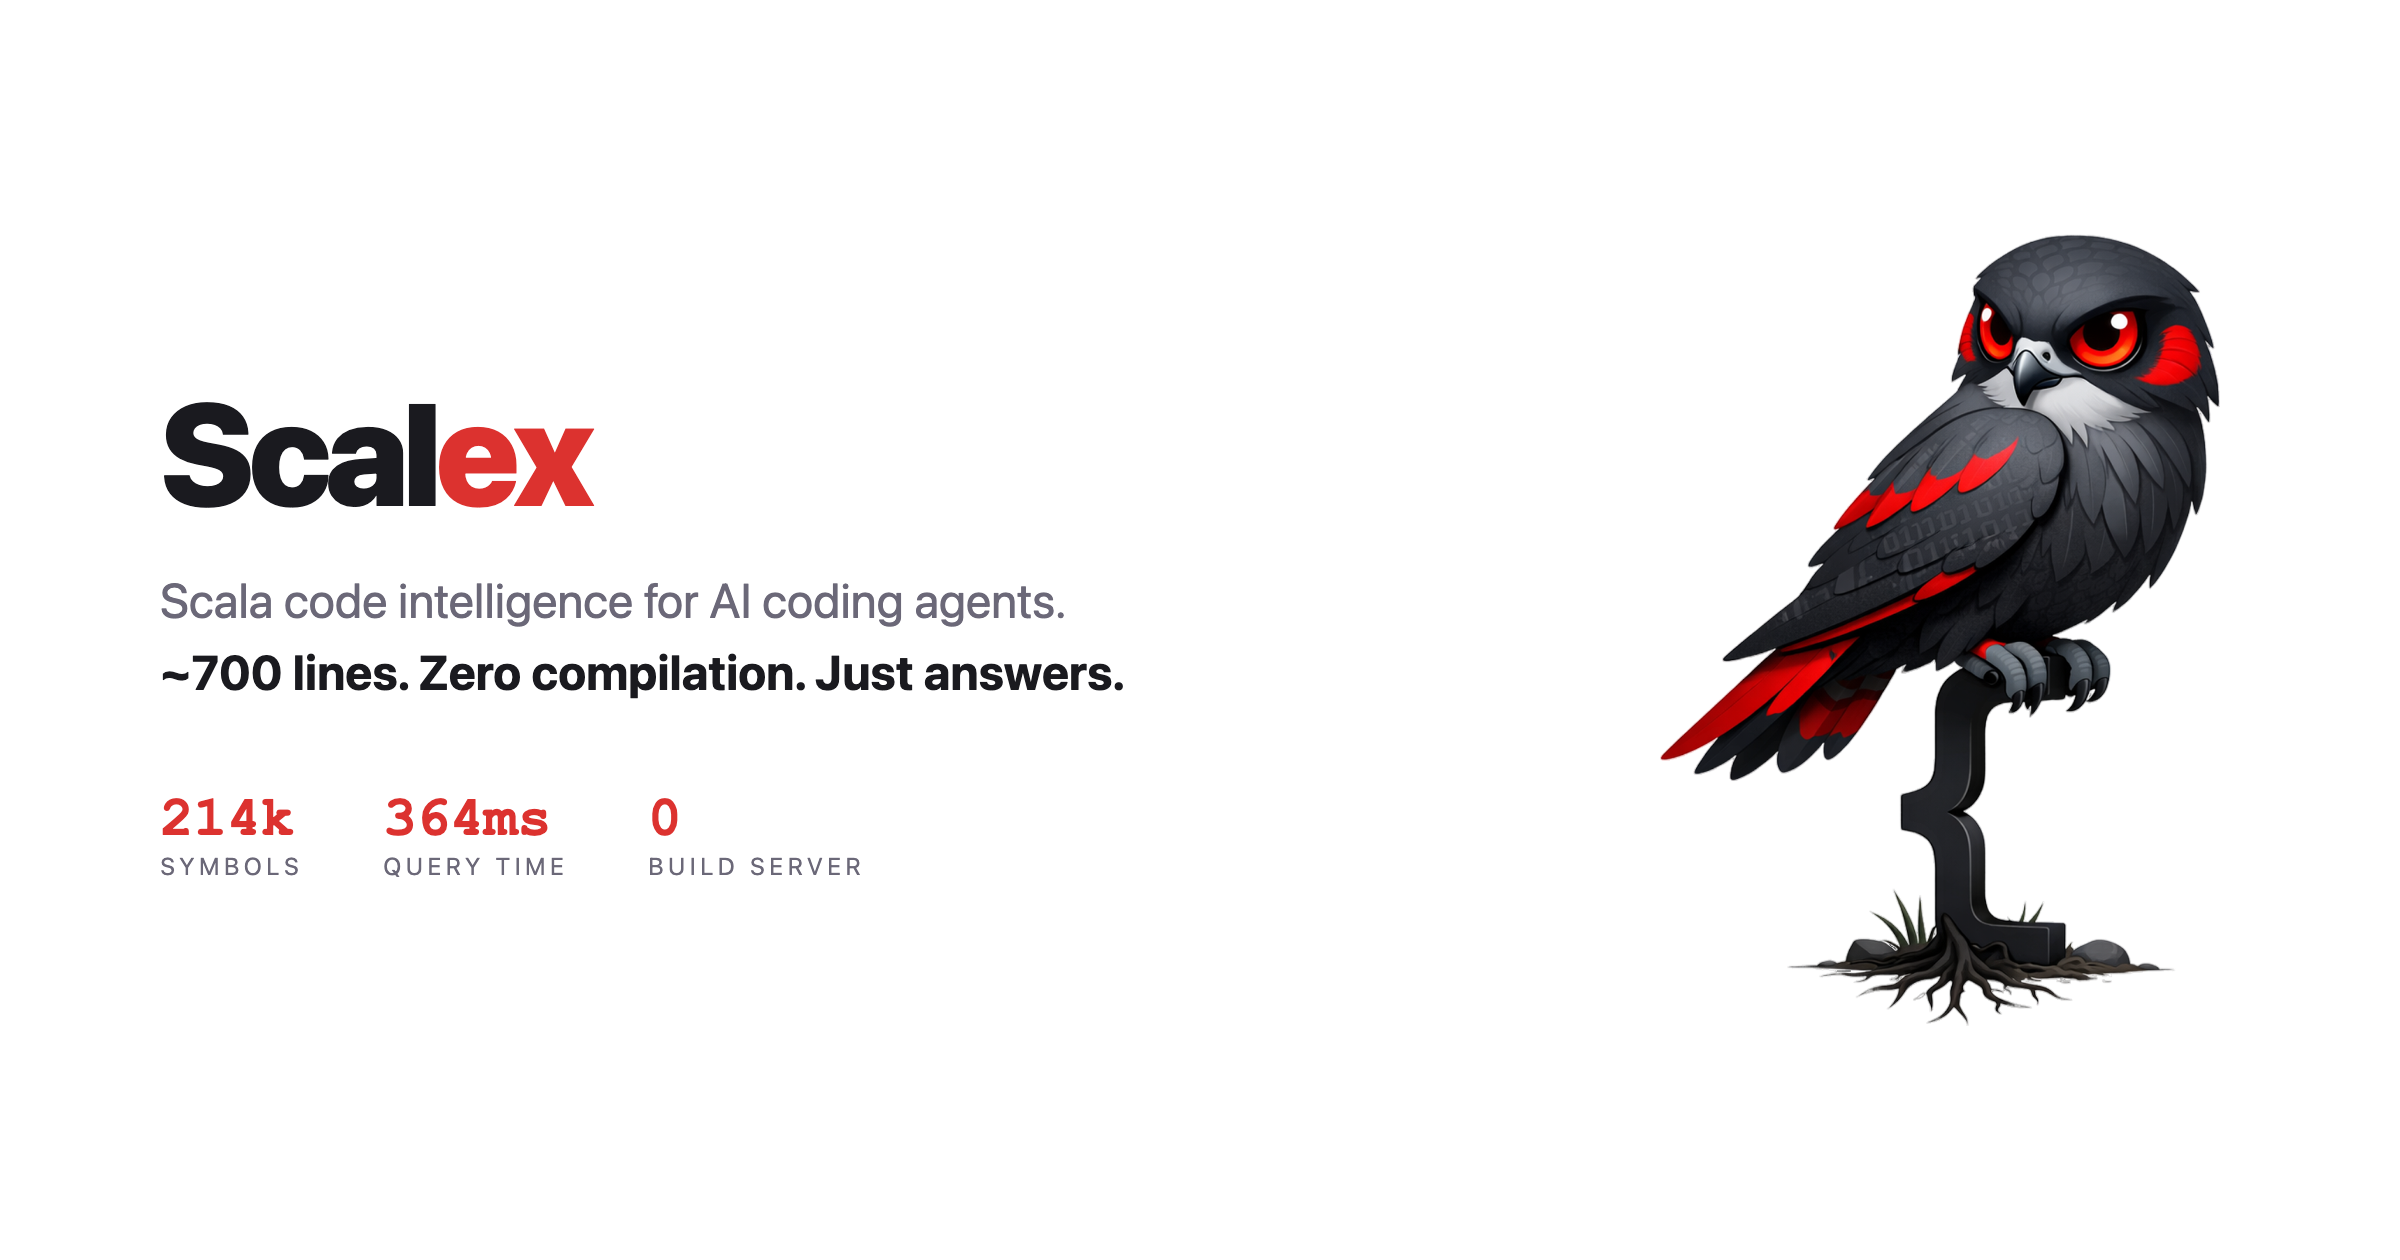
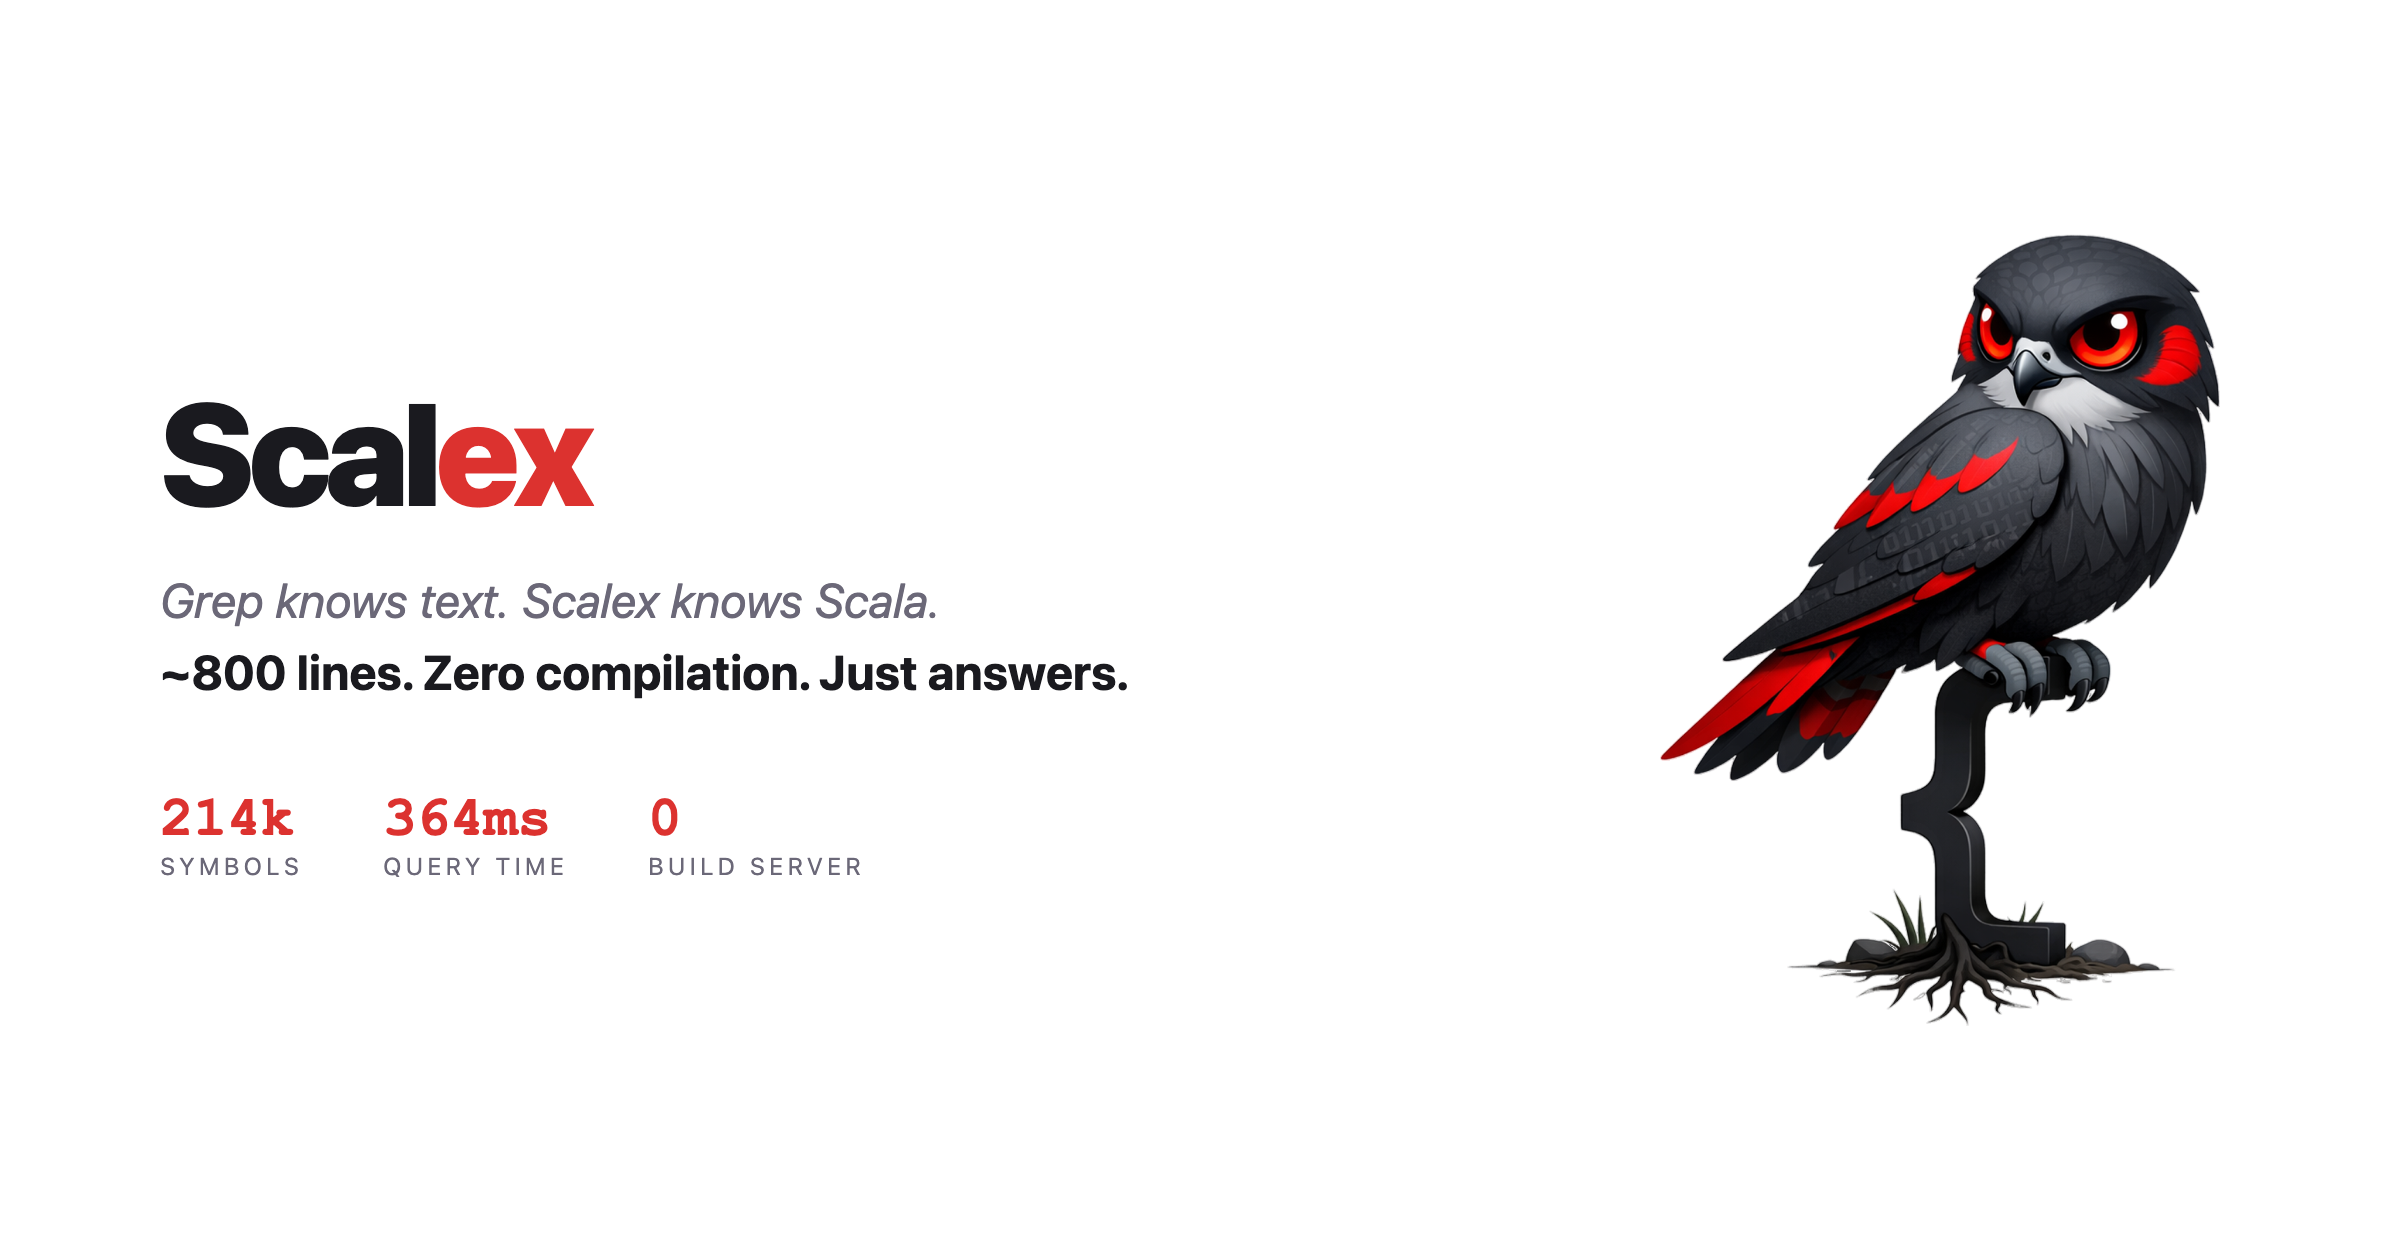
Update branding: add slogan, fix image links, bump line count to ~800
- Add "Grep knows text. Scalex knows Scala." slogan to README and banners
- Fix broken image/doc links from docs/ to site/ after GitHub Pages move
- Update ~700 lines → ~800 lines across all docs, banners, and website
- Re-render all banner PNGs from updated HTML sources

Changed region(s): [[0.0625, 0.5262, 0.4688, 0.5571], [0.0625, 0.4643, 0.4375, 0.4952]]

diff --git a/site/index.html b/site/index.html
@@ -4,11 +4,11 @@
   <meta charset="UTF-8">
   <meta name="viewport" content="width=device-width, initial-scale=1.0">
   <title>Scalex — Scala Code Intelligence for AI Agents</title>
-  <meta name="description" content="~700 lines. Zero compilation. Zero build server. Search symbols, find definitions, find implementations, find references — all from source.">
+  <meta name="description" content="~800 lines. Zero compilation. Zero build server. Search symbols, find definitions, find implementations, find references — all from source.">
 
   <!-- OpenGraph -->
   <meta property="og:title" content="Scalex — Scala Code Intelligence for AI Agents">
-  <meta property="og:description" content="~700 lines. Zero compilation. Zero build server. Just answers.">
+  <meta property="og:description" content="~800 lines. Zero compilation. Zero build server. Just answers.">
   <meta property="og:image" content="https://nguyenyou.github.io/scalex/og-banner.png">
   <meta property="og:url" content="https://nguyenyou.github.io/scalex">
   <meta property="og:type" content="website">
@@ -16,7 +16,7 @@
   <!-- Twitter Card -->
   <meta name="twitter:card" content="summary_large_image">
   <meta name="twitter:title" content="Scalex — Scala Code Intelligence for AI Agents">
-  <meta name="twitter:description" content="~700 lines. Zero compilation. Zero build server. Just answers.">
+  <meta name="twitter:description" content="~800 lines. Zero compilation. Zero build server. Just answers.">
   <meta name="twitter:image" content="https://nguyenyou.github.io/scalex/og-banner.png">
 
   <link rel="icon" type="image/png" sizes="32x32" href="favicon-32.png">
@@ -421,7 +421,7 @@
   <section class="hero">
     <img src="Kestrel.png" alt="Scalex Kestrel" class="mascot">
     <h1>Scal<span class="red">ex</span></h1>
-    <p class="tagline">Scala code intelligence for AI coding agents.<br><strong>~700 lines. Zero compilation. Zero build server. Just answers.</strong></p>
+    <p class="tagline"><em>Grep knows text. Scalex knows Scala.</em><br><strong>~800 lines. Zero compilation. Zero build server. Just answers.</strong></p>
 
     <div class="stats">
       <div class="stat">
@@ -433,7 +433,7 @@
         <div class="stat-label">Warm Query</div>
       </div>
       <div class="stat">
-        <div class="stat-value">~700</div>
+        <div class="stat-value">~800</div>
         <div class="stat-label">Lines of Code</div>
       </div>
       <div class="stat">

diff --git a/site/og-banner-light.html b/site/og-banner-light.html
@@ -80,7 +80,7 @@
 <body>
   <div class="left">
     <h1>Scal<span>ex</span></h1>
-    <p>Scala code intelligence for AI coding agents.<br><strong>~700 lines. Zero compilation. Just answers.</strong></p>
+    <p>Scala code intelligence for AI coding agents.<br><strong>~800 lines. Zero compilation. Just answers.</strong></p>
     <div class="stats">
       <div>
         <div class="stat-value">214k</div>

diff --git a/site/og-banner.html b/site/og-banner.html
@@ -80,7 +80,7 @@
 <body>
   <div class="left">
     <h1>Scal<span>ex</span></h1>
-    <p>Scala code intelligence for AI coding agents.<br><strong>~700 lines. Zero compilation. Just answers.</strong></p>
+    <p>Scala code intelligence for AI coding agents.<br><strong>~800 lines. Zero compilation. Just answers.</strong></p>
     <div class="stats">
       <div>
         <div class="stat-value">214k</div>

diff --git a/site/readme-banner-dark.html b/site/readme-banner-dark.html
@@ -80,7 +80,7 @@
 <body>
   <div class="left">
     <h1>Scal<span>ex</span></h1>
-    <p>Scala code intelligence for AI coding agents.<br><strong>~700 lines. Zero compilation. Just answers.</strong></p>
+    <p><em>Grep knows text. Scalex knows Scala.</em><br><strong>~800 lines. Zero compilation. Just answers.</strong></p>
     <div class="stats">
       <div>
         <div class="stat-value">214k</div>

diff --git a/site/readme-banner-light.html b/site/readme-banner-light.html
@@ -80,7 +80,7 @@
 <body>
   <div class="left">
     <h1>Scal<span>ex</span></h1>
-    <p>Scala code intelligence for AI coding agents.<br><strong>~700 lines. Zero compilation. Just answers.</strong></p>
+    <p><em>Grep knows text. Scalex knows Scala.</em><br><strong>~800 lines. Zero compilation. Just answers.</strong></p>
     <div class="stats">
       <div>
         <div class="stat-value">214k</div>

diff --git a/README.md b/README.md
@@ -1,9 +1,11 @@
 <p align="center">
   <picture>
-    <source media="(prefers-color-scheme: dark)" srcset="docs/readme-banner-dark.png">
-    <source media="(prefers-color-scheme: light)" srcset="docs/readme-banner-light.png">
-    <img src="docs/readme-banner-dark.png" alt="Scalex — Scala code intelligence for AI coding agents" width="839" height="440">
+    <source media="(prefers-color-scheme: dark)" srcset="site/readme-banner-dark.png">
+    <source media="(prefers-color-scheme: light)" srcset="site/readme-banner-light.png">
+    <img src="site/readme-banner-dark.png" alt="Scalex — Scala code intelligence for AI coding agents" width="839" height="440">
   </picture>
+  <br>
+  <em>Grep knows text. Scalex knows Scala.</em>
 </p>
 
 ---
@@ -52,7 +54,7 @@ Build the fastest possible Scala code navigation tool, designed from the ground 
 
 ## How It Works
 
-The entire tool is ~700 lines of Scala 3 in a single file. Here's the architecture:
+The entire tool is ~800 lines of Scala 3 in a single file. Here's the architecture:
 
 ```
                          ┌─────────────────┐
@@ -380,23 +382,23 @@ The name also nods to "Scala" itself — Italian for "staircase" or "scale" — 
 ## Mascot
 
 <p align="center">
-  <img src="docs/Kestrel.png" alt="The Scalex Kestrel" width="256">
+  <img src="site/Kestrel.png" alt="The Scalex Kestrel" width="256">
 </p>
 
 The Scalex mascot is a **kestrel** — the smallest falcon. It was chosen because it mirrors the tool's core qualities:
 
-- **Smallest falcon** — reflects Scalex's lightweight, minimal design (~700 lines, single 26MB binary)
+- **Smallest falcon** — reflects Scalex's lightweight, minimal design (~800 lines, single 26MB binary)
 - **Incredible eyesight** — spots symbols across 14k files, like a kestrel spots prey from 50 meters
 - **Hovers before diving** — systematically scans an area before striking, like indexing before querying
 - **Lives alongside people** — kestrels thrive near humans, like Scalex works alongside AI agents
 
-See [MASCOT.md](docs/MASCOT.md) for the full design brief.
+See [MASCOT.md](site/MASCOT.md) for the full design brief.
 
 ## Credits
 
 Scalex is built on ideas from [Metals](https://scalameta.org/metals/) — the Scala language server by the [Scalameta](https://scalameta.org/) team.
 
-Specifically, the **MBT (Metal Build Tool) subsystem** in the `main-v2` branch (Databricks fork) pioneered the approach of using git OIDs for cache invalidation, bloom filters for reference pre-screening, and parallel source-level indexing without a build server. Scalex reimplements these ideas in ~700 lines of Scala 3.
+Specifically, the **MBT (Metal Build Tool) subsystem** in the `main-v2` branch (Databricks fork) pioneered the approach of using git OIDs for cache invalidation, bloom filters for reference pre-screening, and parallel source-level indexing without a build server. Scalex reimplements these ideas in ~800 lines of Scala 3.
 
 - **From Metals v2 MBT**: git-based file discovery, OID caching, bloom filter search, parallel indexing
 - **From Scalameta**: the parser that makes source-level symbol extraction possible

diff --git a/docs/HOW_IT_WORKS.md b/docs/HOW_IT_WORKS.md
@@ -1,6 +1,6 @@
 # How Scalex Works
 
-Scalex is a ~700-line Scala 3 program that gives AI agents instant code navigation across Scala projects. No compiler, no build server, no IDE — just git and a parser.
+Scalex is a ~800-line Scala 3 program that gives AI agents instant code navigation across Scala projects. No compiler, no build server, no IDE — just git and a parser.
 
 This document explains every layer of the system, from the ground up.
 
@@ -332,4 +332,4 @@ The launcher script checks if `scalex` is on PATH first, then falls back to `sca
 
 Dependencies: **2 libraries** (Scalameta for parsing, Guava for bloom filters).
 
-Total implementation: **~700 lines** of Scala 3 in a single file.
+Total implementation: **~800 lines** of Scala 3 in a single file.

diff --git a/site/MASCOT.md b/site/MASCOT.md
@@ -24,7 +24,7 @@ A **small kestrel** (the smallest falcon) — fast, sharp-eyed, lightweight, hov
 
 ### Why a kestrel?
 
-- **Smallest falcon** — reflects our lightweight, minimal design (~700 lines of code)
+- **Smallest falcon** — reflects our lightweight, minimal design (~800 lines of code)
 - **Incredible eyesight** — spots symbols from across 14k files, like a kestrel spots prey from 50 meters
 - **Hovers in place** — systematically scans an area before diving, like indexing before querying
 - **Fast dive** — instant results once it finds the target

diff --git a/docs/INSPIRATION.md b/docs/INSPIRATION.md
@@ -73,4 +73,4 @@ We took that insight and built the simplest possible tool around it: a single-fi
 
 ## License
 
-Metals is [Apache 2.0](https://github.com/scalameta/metals/blob/main/LICENSE). Scalex does not contain any code copied directly from Metals — we reimplemented the ideas in ~700 lines of Scala 3.
+Metals is [Apache 2.0](https://github.com/scalameta/metals/blob/main/LICENSE). Scalex does not contain any code copied directly from Metals — we reimplemented the ideas in ~800 lines of Scala 3.

diff --git a/docs/GAP_ANALYSIS.md b/docs/GAP_ANALYSIS.md
@@ -17,7 +17,7 @@ This document compares Scalex against the MBT (Metal Build Tool) subsystem in Me
 | No build server required | Works without BSP | Works without BSP |
 | No compilation required | Source-level only | Source-level only |
 
-The core architecture is identical. We reimplemented the same ideas in ~700 lines of Scala 3.
+The core architecture is identical. We reimplemented the same ideas in ~800 lines of Scala 3.
 
 ## What Metals v2 MBT does that we don't
 

diff --git a/CLAUDE.md b/CLAUDE.md
@@ -30,7 +30,7 @@ claude plugin validate plugin/
 
 ## Architecture
 
-Single-file implementation at `scalex.scala` (~700 lines, Scala 3.8.2, JDK 21+).
+Single-file implementation at `scalex.scala` (~800 lines, Scala 3.8.2, JDK 21+).
 
 ### Pipeline
 
